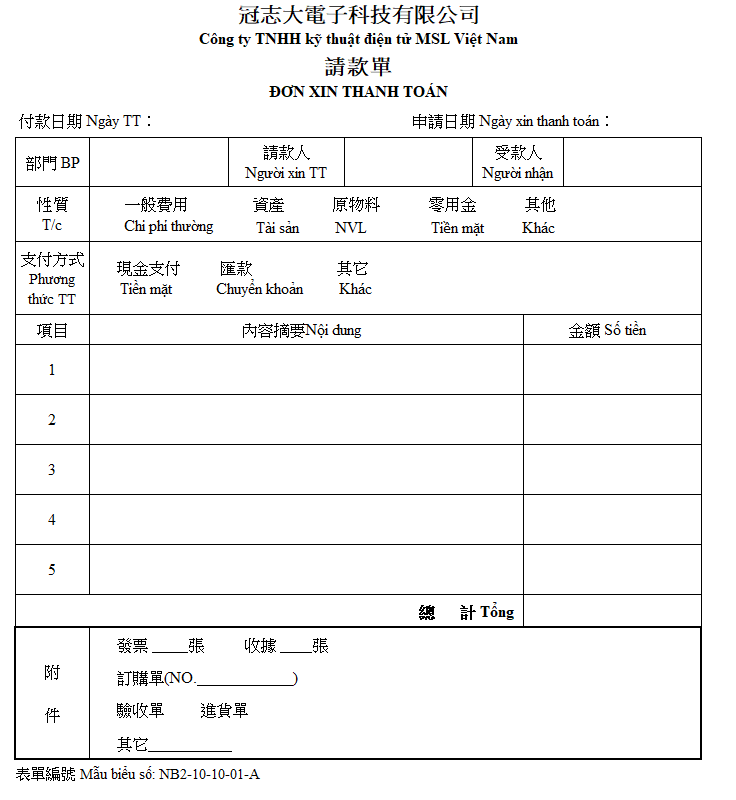
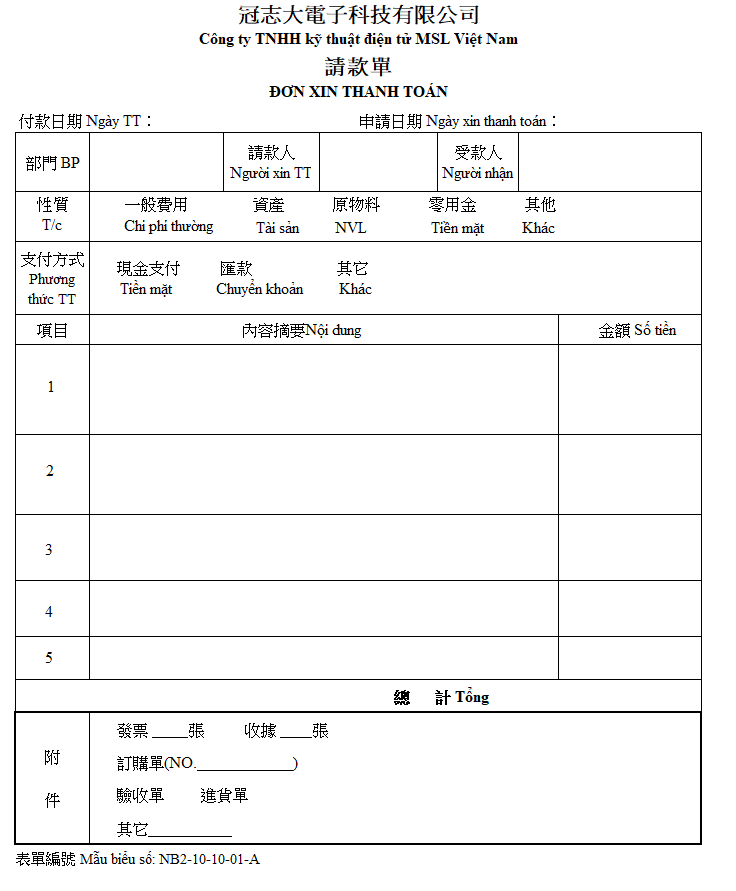
金額欄位靠右&幣別只留總計欄位

diff --git a/ODMFPAYMVEUS01/ODMFPAYMVEUS01.js b/ODMFPAYMVEUS01/ODMFPAYMVEUS01.js
@@ -328,7 +328,7 @@ function DraftSaveCheck(){
 	//float格式驗証
 	var tmoney01 = $('#MasterPage_MasterPageContent_money01_txt');
 	if(tmoney01.length>0){
-		var tmoney01Value = $('#MasterPage_MasterPageContent_money01_txt').val().trim();
+		var tmoney01Value = $('#MasterPage_MasterPageContent_money01_txt').val().trim().replace(/\,/g, '');
 		if (tmoney01Value.length>0){
 			if(!/^-?(?:\d+|\d{1,3}(?:,\d{3})+)(?:\.\d+)?$/.test(tmoney01Value)){
 				//輸入的資料不符合float數值格式 !
@@ -344,7 +344,7 @@ function DraftSaveCheck(){
 	//float格式驗証
 	var tmoney02 = $('#MasterPage_MasterPageContent_money02_txt');
 	if(tmoney02.length>0){
-		var tmoney02Value = $('#MasterPage_MasterPageContent_money02_txt').val().trim();
+		var tmoney02Value = $('#MasterPage_MasterPageContent_money02_txt').val().trim().replace(/\,/g, '');
 		if (tmoney02Value.length>0){
 			if(!/^-?(?:\d+|\d{1,3}(?:,\d{3})+)(?:\.\d+)?$/.test(tmoney02Value)){
 				//輸入的資料不符合float數值格式 !
@@ -360,7 +360,7 @@ function DraftSaveCheck(){
 	//float格式驗証
 	var tmoney03 = $('#MasterPage_MasterPageContent_money03_txt');
 	if(tmoney03.length>0){
-		var tmoney03Value = $('#MasterPage_MasterPageContent_money03_txt').val().trim();
+		var tmoney03Value = $('#MasterPage_MasterPageContent_money03_txt').val().trim().replace(/\,/g, '');
 		if (tmoney03Value.length>0){
 			if(!/^-?(?:\d+|\d{1,3}(?:,\d{3})+)(?:\.\d+)?$/.test(tmoney03Value)){
 				//輸入的資料不符合float數值格式 !
@@ -376,7 +376,7 @@ function DraftSaveCheck(){
 	//float格式驗証
 	var tmoney04 = $('#MasterPage_MasterPageContent_money04_txt');
 	if(tmoney04.length>0){
-		var tmoney04Value = $('#MasterPage_MasterPageContent_money04_txt').val().trim();
+		var tmoney04Value = $('#MasterPage_MasterPageContent_money04_txt').val().trim().replace(/\,/g, '');
 		if (tmoney04Value.length>0){
 			if(!/^-?(?:\d+|\d{1,3}(?:,\d{3})+)(?:\.\d+)?$/.test(tmoney04Value)){
 				//輸入的資料不符合float數值格式 !
@@ -392,7 +392,7 @@ function DraftSaveCheck(){
 	//float格式驗証
 	var tmoney05 = $('#MasterPage_MasterPageContent_money05_txt');
 	if(tmoney05.length>0){
-		var tmoney05Value = $('#MasterPage_MasterPageContent_money05_txt').val().trim();
+		var tmoney05Value = $('#MasterPage_MasterPageContent_money05_txt').val().trim().replace(/\,/g, '');
 		if (tmoney05Value.length>0){
 			if(!/^-?(?:\d+|\d{1,3}(?:,\d{3})+)(?:\.\d+)?$/.test(tmoney05Value)){
 				//輸入的資料不符合float數值格式 !
@@ -408,7 +408,7 @@ function DraftSaveCheck(){
 	//float格式驗証
 	var tmtotal = $('#MasterPage_MasterPageContent_mtotal_txt');
 	if(tmtotal.length>0){
-		var tmtotalValue = $('#MasterPage_MasterPageContent_mtotal_txt').val().trim();
+		var tmtotalValue = $('#MasterPage_MasterPageContent_mtotal_txt').val().trim().replace(/\,/g, '');
 		if (tmtotalValue.length>0){
 			if(!/^-?(?:\d+|\d{1,3}(?:,\d{3})+)(?:\.\d+)?$/.test(tmtotalValue)){
 				//輸入的資料不符合float數值格式 !
@@ -672,7 +672,7 @@ function domath_mtotal()
 	try{
 		if($("#MasterPage_MasterPageContent_money01_txt").length==0)
 			return;
-		var money01 = $("#MasterPage_MasterPageContent_money01_txt").val().trim();
+		var money01 = $("#MasterPage_MasterPageContent_money01_txt").val().trim().replace(/\,/g, '');
 		if(isNaN(money01)){
 			$("#MasterPage_MasterPageContent_mtotal_txt").val("");
 			return;
@@ -684,7 +684,7 @@ function domath_mtotal()
 
 		if($("#MasterPage_MasterPageContent_money02_txt").length==0)
 			return;
-		var money02 = $("#MasterPage_MasterPageContent_money02_txt").val().trim();
+		var money02 = $("#MasterPage_MasterPageContent_money02_txt").val().trim().replace(/\,/g, '');
 		if(isNaN(money02)){
 			$("#MasterPage_MasterPageContent_mtotal_txt").val("");
 			return;
@@ -696,7 +696,7 @@ function domath_mtotal()
 
 		if($("#MasterPage_MasterPageContent_money03_txt").length==0)
 			return;
-		var money03 = $("#MasterPage_MasterPageContent_money03_txt").val().trim();
+		var money03 = $("#MasterPage_MasterPageContent_money03_txt").val().trim().replace(/\,/g, '');
 		if(isNaN(money03)){
 			$("#MasterPage_MasterPageContent_mtotal_txt").val("");
 			return;
@@ -708,7 +708,7 @@ function domath_mtotal()
 
 		if($("#MasterPage_MasterPageContent_money04_txt").length==0)
 			return;
-		var money04 = $("#MasterPage_MasterPageContent_money04_txt").val().trim();
+		var money04 = $("#MasterPage_MasterPageContent_money04_txt").val().trim().replace(/\,/g, '');
 		if(isNaN(money04)){
 			$("#MasterPage_MasterPageContent_mtotal_txt").val("");
 			return;
@@ -720,7 +720,7 @@ function domath_mtotal()
 
 		if($("#MasterPage_MasterPageContent_money05_txt").length==0)
 			return;
-		var money05 = $("#MasterPage_MasterPageContent_money05_txt").val().trim();
+		var money05 = $("#MasterPage_MasterPageContent_money05_txt").val().trim().replace(/\,/g, '');
 		if(isNaN(money05)){
 			$("#MasterPage_MasterPageContent_mtotal_txt").val("");
 			return;
@@ -736,7 +736,18 @@ function domath_mtotal()
 			return;
 		}
 
-		document.getElementById("MasterPage_MasterPageContent_mtotal_txt").value=parseFloat(finalvalue).toFixed(2);
+		document.getElementById("MasterPage_MasterPageContent_mtotal_txt").value = parseFloat(finalvalue).toFixed(2);
+
+		//^_^ 20230412 Peggy 重新加上千份位↓
+		document.getElementById("MasterPage_MasterPageContent_mtotal_txt").value = OEMFormat(parseFloat(finalvalue).toFixed(2));
+		document.getElementById("MasterPage_MasterPageContent_money01_txt").value = OEMFormat(parseFloat(money01).toFixed(2));
+		document.getElementById("MasterPage_MasterPageContent_money02_txt").value = OEMFormat(parseFloat(money02).toFixed(2));
+		document.getElementById("MasterPage_MasterPageContent_money03_txt").value = OEMFormat(parseFloat(money03).toFixed(2));
+		document.getElementById("MasterPage_MasterPageContent_money04_txt").value = OEMFormat(parseFloat(money04).toFixed(2));
+		document.getElementById("MasterPage_MasterPageContent_money05_txt").value = OEMFormat(parseFloat(money05).toFixed(2));
+		//^_^  20230412 Peggy 重新加上千份位↑
+
+
 	}catch(err){
 		$("#MasterPage_MasterPageContent_mtotal_txt").val("");
 		var errorMsg = getI18NForSpecial('FD','CalculatedSet2','MutiLang_04','../../../src/_Common/PlatformUtil/KernelPage/I18N/I18NForJs.aspx');

diff --git a/ODMFPAYMVEUS01/ODMFPAYMVEUS01.aspx.cs b/ODMFPAYMVEUS01/ODMFPAYMVEUS01.aspx.cs
@@ -1290,13 +1290,23 @@ this.rdtc_ctrolRadio1.Attributes.Add("onclick", "InitTriggerMust('" + base.FormS
 this.rdtc_ctrolRadio2.Attributes.Add("onclick", "InitTriggerMust('" + base.FormStatus.ToString() + "');document.getElementById('MasterPage_MasterPageContent_rdtc_txt').value = '2';");
 this.rdtc_ctrolRadio3.Attributes.Add("onclick", "InitTriggerMust('" + base.FormStatus.ToString() + "');document.getElementById('MasterPage_MasterPageContent_rdtc_txt').value = '3';");
 this.rdtc_ctrolRadio4.Attributes.Add("onclick", "InitTriggerMust('" + base.FormStatus.ToString() + "');document.getElementById('MasterPage_MasterPageContent_rdtc_txt').value = '4';");
-		}//settingClientFunction結尾
 
-		/// <summary>
-		/// %%必填%%
-		/// </summary>
-		/// <param name="pMiMjManager"></param>
-		protected override void buildMiMjManager(Hashtable pMiMjManager)
+            #region 
+			//^_^ 20230412 Peggy Start
+            //三位一撇
+            OEMLibrary.RegisterNumberFormat(this, new TextBox2[] {
+            money01.TxtInput,money02.TxtInput,money03.TxtInput,
+            money04.TxtInput,money05.TxtInput,mtotal.TxtInput
+            });
+            #endregion
+
+        }//settingClientFunction結尾
+
+        /// <summary>
+        /// %%必填%%
+        /// </summary>
+        /// <param name="pMiMjManager"></param>
+        protected override void buildMiMjManager(Hashtable pMiMjManager)
 		{
 				pMiMjManager.Add("empl1_0", empl1);
 				pMiMjManager.Add("empl2_0", empl2);
